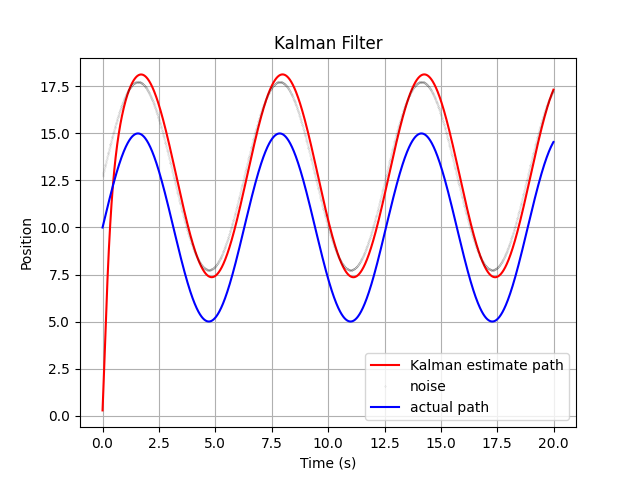
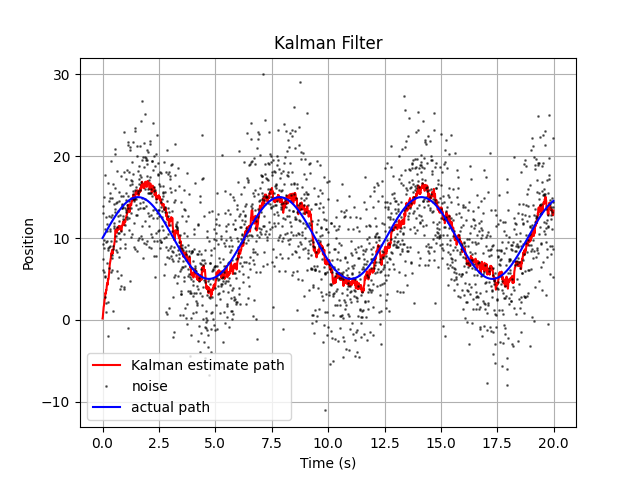
fixed an issue

diff --git a/src/kalman filter.py b/src/kalman filter.py
@@ -29,7 +29,7 @@ time =  np.arange(0 , 20, dt)
 
 true_pos = 10 + 5*(np.sin(time))
 
-noisy_sensor = true_pos +np.random.normal(0,5.0)
+noisy_sensor = true_pos +np.random.normal(0, 5.0, len(time))
 
 
 P= np.identity(2)
@@ -66,7 +66,7 @@ for i ,t in enumerate(time):
     history_predicted.append(xf[0,0])
 
 plt.plot(time , history_predicted , color = "r", label = "Kalman estimate path")
-plt.plot(time , noisy_sensor,'o', alpha = 0.2, markersize = 0.2,  color="black",label = 'noise' )
+plt.plot(time , noisy_sensor,'o', alpha = 0.5, markersize = 1,  color="black",label = 'noise' )
 plt.plot(time , true_pos, color = "blue", label= "actual path")
 plt.grid(True)
 plt.xlabel('Time (s)')
